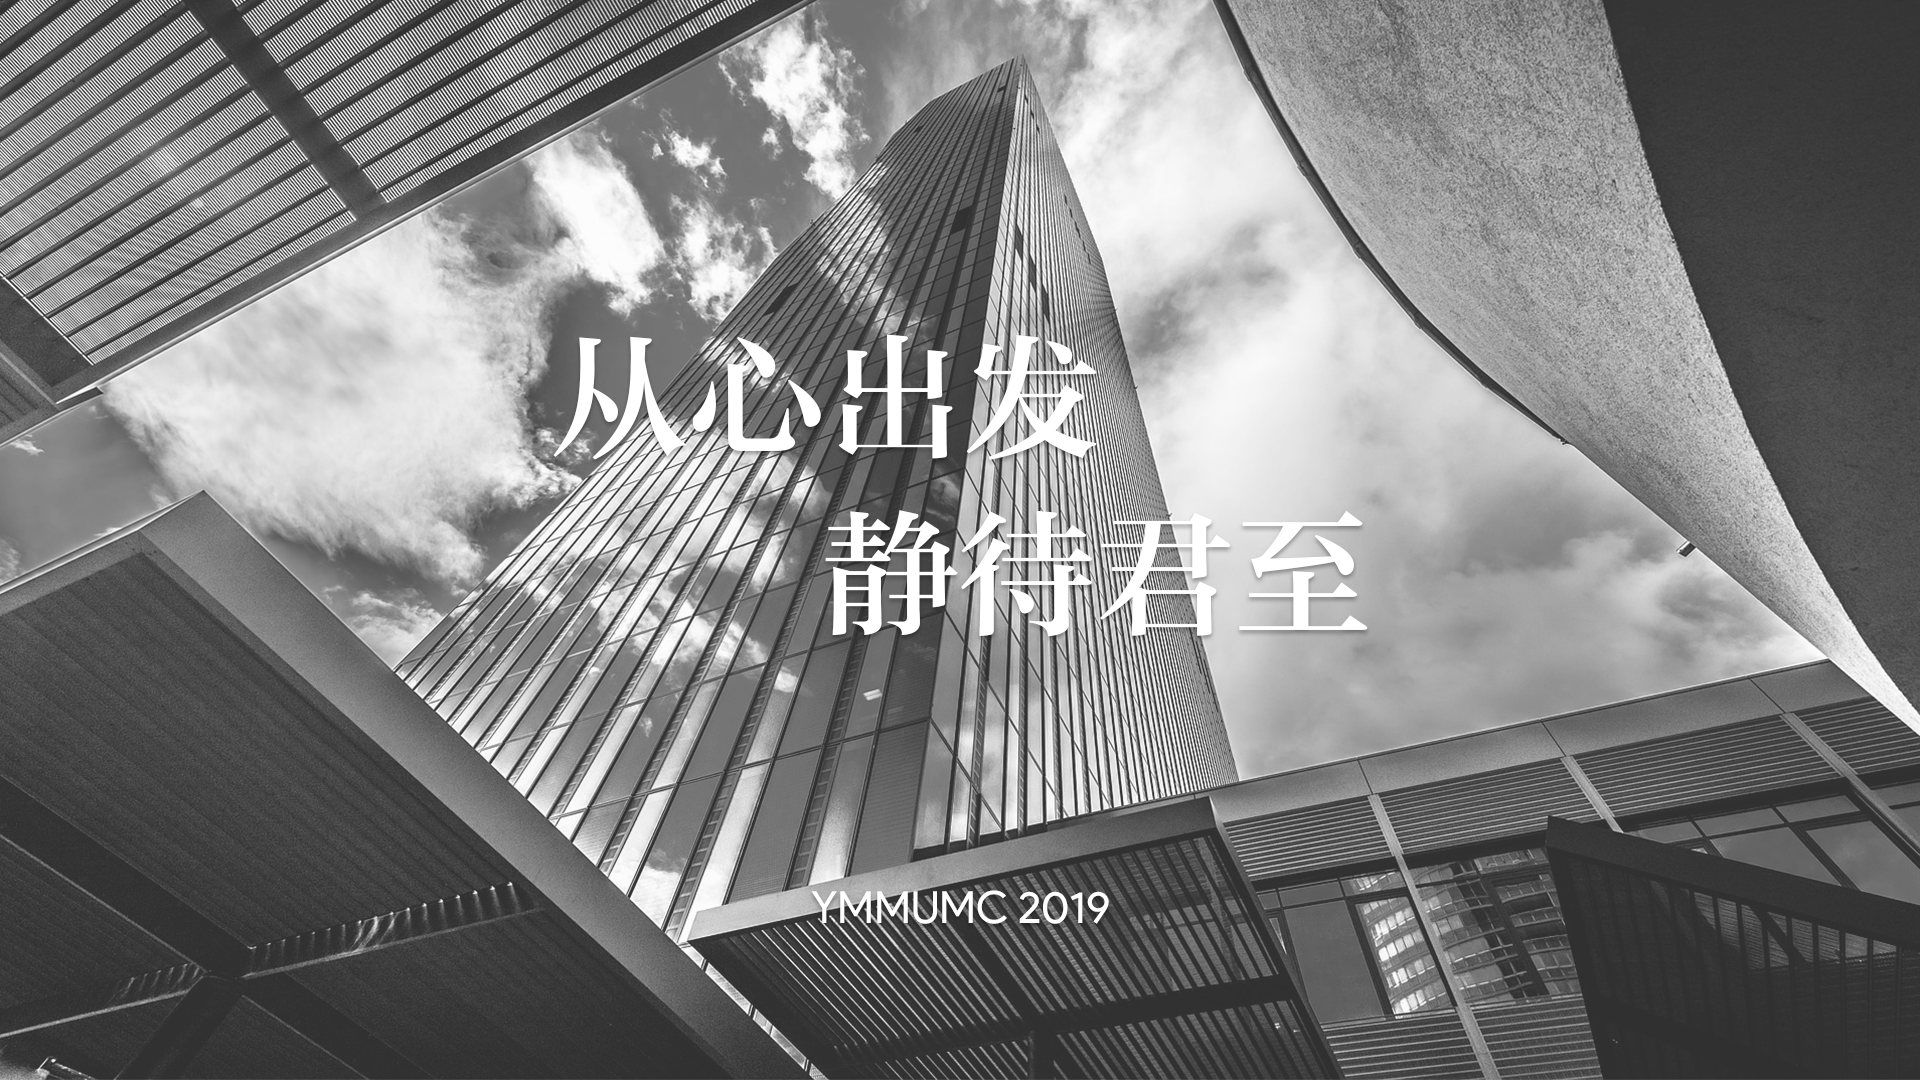
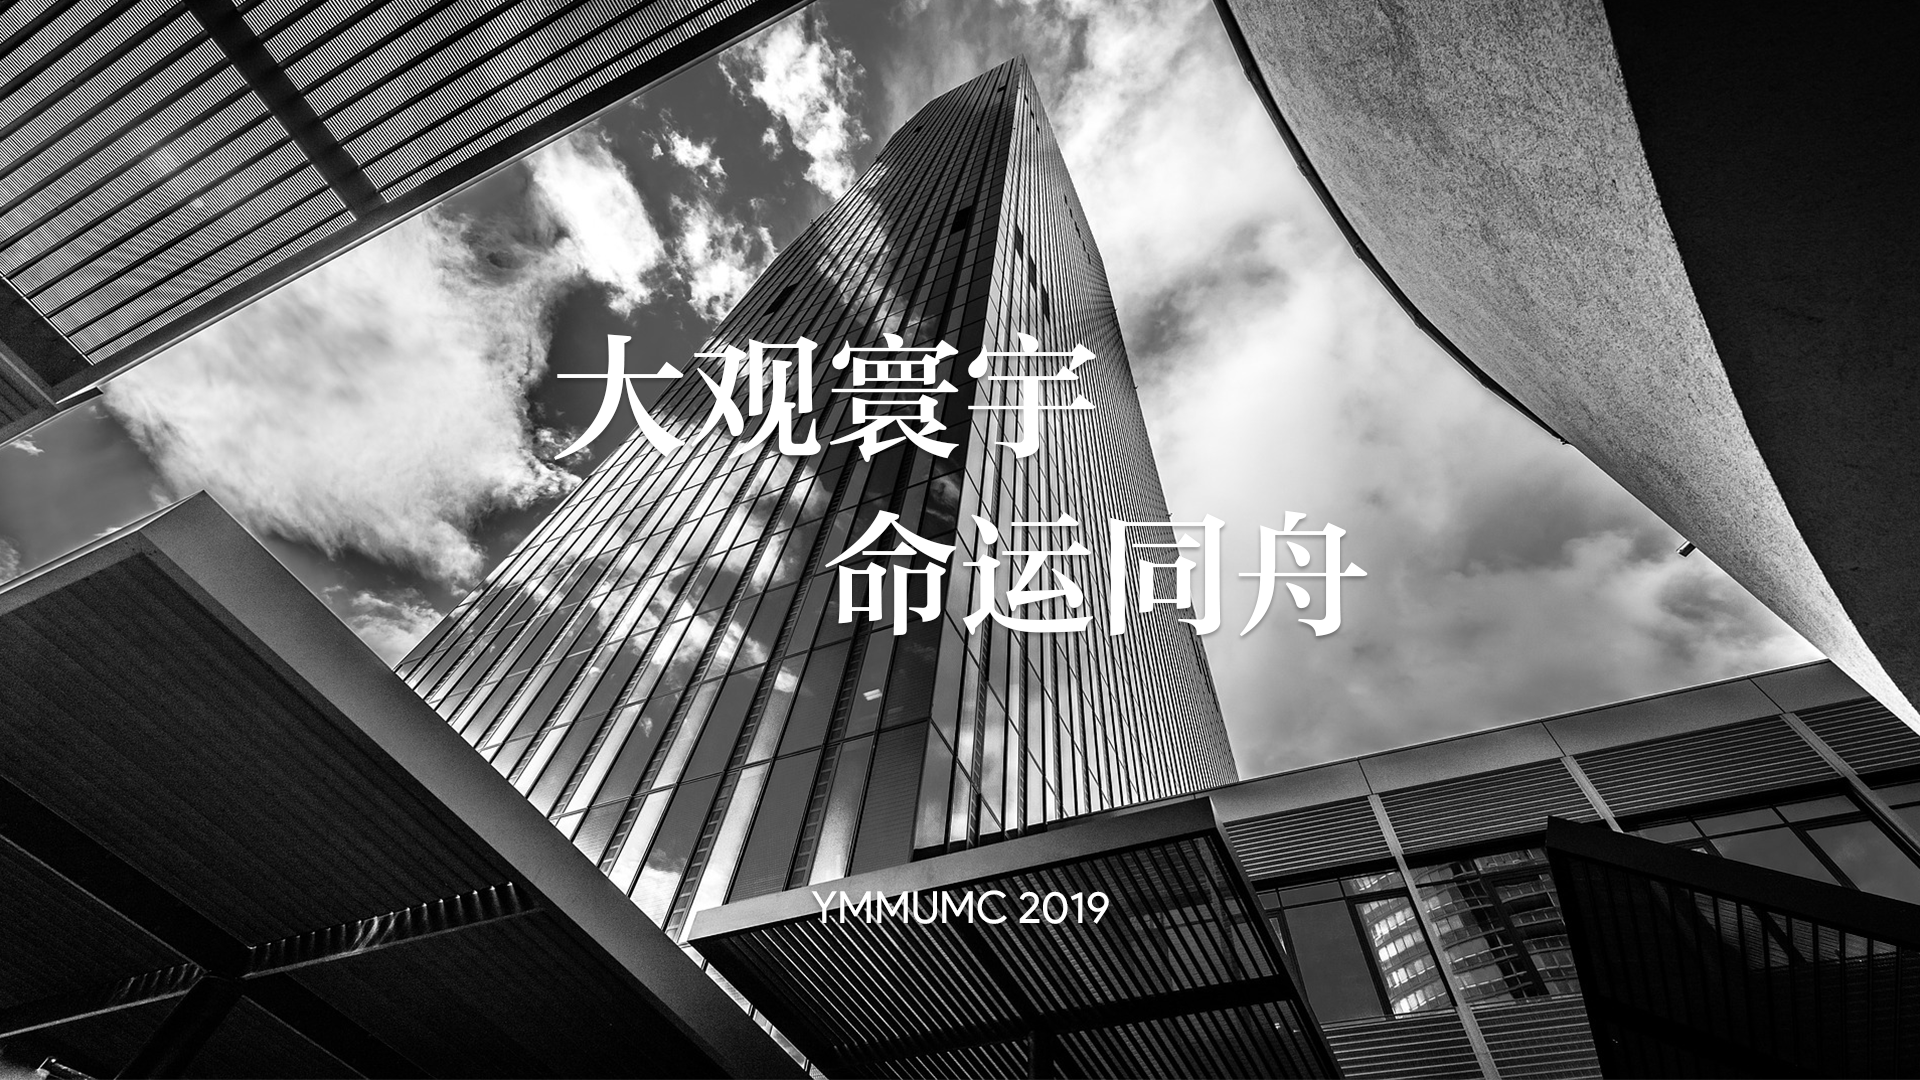
我现在就是后悔，非常后悔 我™应该用hexo来写的

diff --git a/contact.html b/contact.html
@@ -3,7 +3,7 @@
 
 <head>
     <!--指定HTML文档的标题，注意：不要忘记结束标签里面的反斜杠“/”，否则整个页面将不会显示-->
-    <title>会议成果展示 | 第四届宜梦模拟联合国大会</title>
+    <title>会议基本信息 | 第四届宜梦模拟联合国大会</title>
     <meta http-equiv="Content-Type" content="text/html; charset=utf-8" />
     <meta name="keywords" content="aiokr" />
     <meta name="description" content="" />
@@ -41,7 +41,7 @@
                 <a href="./apply.html" class="mdui-ripple">报名通道</a>
                 <a href="./oc.html" class="mdui-ripple">组委会成员介绍</a>
                 <a href="./file.html" class="mdui-ripple">文件中心</a>
-                <a href="#" class="mdui-ripple">会议成果展示</a>
+                <a href="./results.html" class="mdui-ripple">会议成果展示</a>
             </div>
         </div>
     </div>
@@ -58,8 +58,48 @@
                 <div>
                     <!--<script charset="UTF-8" defer>(function(h){function n(a){return null===a?null:a.scrollHeight>a.clientHeight?a:n(a.parentNode)}function t(b){if(b.data){var f=JSON.parse(b.data);!f.height||p||q||(d.style.height=+f.height+"px");if(f.getter){b={};var f=[].concat(f.getter),k,h=f.length,m,c,g,e;for(k=0;k<h;k++){m=k;c=f[k]||{};c.n&&(m=c.n);g=null;try{switch(c.t){case "window":e=window;break;case "scrollParent":e=n(a)||window;break;default:e=a}if(c.e)if("rect"===c.v){g={};var l=e.getBoundingClientRect();g={top:l.top,left:l.left,width:l.width,height:l.height}}else g=e[c.v].apply(e,[].concat(c.e))||!0;else c.s?(e[c.v]=c.s,g=!0):g=e[c.v]||!1}catch(u){}b[m]=g}b.innerState=!p&&!q;a.contentWindow.postMessage(JSON.stringify({queryRes:b}),"*")}}}for(var r=h.document,b=r.documentElement;b.childNodes.length&&1==b.lastChild.nodeType;)b=b.lastChild;var d=b.parentNode,a=r.createElement("iframe");d.style.overflowY="auto";d.style.overflowX="hidden";var p=d.style.height&&"auto"!==d.style.height,q="absolute"===d.style.position||window.getComputedStyle&&"absolute"===window.getComputedStyle(d,null).getPropertyValue("position")||d.currentStyle&&"absolute"===d.currentStyle.position;h.addEventListener&&h.addEventListener("message",t,!1);a.src="http://LZMUNC2019.mikecrm.com/gsEwQUE";a.id="mkingsEwQUE";a.onload=function(){a.contentWindow.postMessage(JSON.stringify({cif:1}),"*")};a.frameBorder=0;a.scrolling="no";a.style.display="block";a.style.minWidth="100%";a.style.width="100px";a.style.height="100%";a.style.border="none";a.style.overflow="auto";d.insertBefore(a,b)})(window);</script>
                         -->
+
                     <div class="padding"></div>
-                    
+                    <div class="mdui-card opacity">
+                        <div class="mdui-card-media">
+                            <img src="./assets/images/header-img.png" />
+                        </div>
+                        <div class="mdui-card-primary">
+                            <div class="mdui-card-primary-title">会议基本信息</div>
+                            <div class="mdui-card-primary-subtitle">General Information of the Conf</div>
+                        </div>
+                        <div class="mdui-card-content">
+                            <p>会议名称：2019第四届宜梦模拟联合国大会</p>
+                            <p>会议地点：安徽安庆</p>
+                            <p>会议时间：2018年1月29至1月31日</p>
+
+                        </div>
+                        <div class="mdui-card-actions">
+                        </div>
+                    </div>
+                    <div class="padding"></div>
+                    <div class="mdui-card opacity">
+                        <div class="mdui-card-primary">
+                            <div class="mdui-card-primary-title mdui-text-center">距离第四届宜梦模拟联合国大会开幕</div>
+                            <div class="mdui-card-primary-title mdui-text-center">还有</div>
+                        </div>
+                        <div>
+                            <div id="dd" class="mdui-typo-display-3 mdui-text-center">0</div>
+                            <div class="mdui-typo-display-1 mdui-text-center">天</div>
+                            <br>
+                            <div id="hh" class="mdui-typo-display-3 mdui-text-center">0</div>
+                            <div class="mdui-typo-display-1 mdui-text-center">时</div>
+                            <br>
+                            <div id="mm" class="mdui-typo-display-3 mdui-text-center">0</div>
+                            <div class="mdui-typo-display-1 mdui-text-center">分</div>
+                            <br>
+                            <div id="ss" class="mdui-typo-display-3 mdui-text-center">0</div>
+                            <div class="mdui-typo-display-1 mdui-text-center">秒</div>
+                            <br>
+                            <div class="padding-count"></div>
+                        </div>
+                    </div>
+                    <div class="padding"></div>
                     <div class="mdui-card opacity">
                         <!--<div class="mdui-card-primary">
                             <div class="mdui-card-primary-title">赞助商</div>

diff --git a/index.html b/index.html
@@ -39,9 +39,11 @@
         <div class="mdui-appbar mdui-appbar-fixed opacity mdui-tab-scrollable">
             <div class="mdui-tab mdui-color-theme" mdui-tab>
                 <a href="#" class="mdui-ripple">首页</a>
+                <a href="./contact.html" class="mdui-ripple">会议基本信息</a>
+                <a href="./apply.html" class="mdui-ripple">报名通道</a>
                 <a href="./oc.html" class="mdui-ripple">组委会成员介绍</a>
                 <a href="./file.html" class="mdui-ripple">文件中心</a>
-                <a href="./results.html" class="mdui-ripple" mdui-tooltip="{content: '暂未开启'}">会议成果展示</a>
+                <a href="./results.html" class="mdui-ripple">会议成果展示</a>
             </div>
         </div>
     </div>
@@ -81,56 +83,24 @@
                         <div class="mdui-card-actions">
                         </div>
                     </div>
-                    </div>
-                    <div class="padding"></div>
-                    <div class="mdui-card opacity">
-                        <div class="mdui-card-primary">
-                            <div class="mdui-card-primary-title">报名通道</div>
-                            <div class="mdui-card-primary-subtitle">Apply</div>
-                        </div>
-                        <div class="mdui-card-actions">
-                            <button class="mdui-btn mdui-ripple" mdui-tooltip="{content: '暂未开启 敬请期待'}">代表</button>
-                            <a class="mdui-btn mdui-ripple" href="./form-oc.html">组织团队</a>
-                            <button class="mdui-btn mdui-ripple" mdui-tooltip="{content: '暂未开启 敬请期待'}">学术团队</button>
-                        </div>
-                    </div>
-                    <div class="padding"></div>
-                    <div class="mdui-card opacity">
-                        <div class="mdui-card-primary">
-                            <div class="mdui-card-primary-title mdui-text-center">距离第四届宜梦模拟联合国大会开幕</div>
-                            <div class="mdui-card-primary-title mdui-text-center">还有</div>
-                        </div>
-                        <div>
-                            <div id="dd" class="mdui-typo-display-3 mdui-text-center">0</div>
-                            <div class="mdui-typo-display-1 mdui-text-center">天</div>
-                            <br>
-                            <div id="hh" class="mdui-typo-display-3 mdui-text-center">0</div>
-                            <div class="mdui-typo-display-1 mdui-text-center">时</div>
-                            <br>
-                            <div id="mm" class="mdui-typo-display-3 mdui-text-center">0</div>
-                            <div class="mdui-typo-display-1 mdui-text-center">分</div>
-                            <br>
-                            <div id="ss" class="mdui-typo-display-3 mdui-text-center">0</div>
-                            <div class="mdui-typo-display-1 mdui-text-center">秒</div>
-                            <br>
-                            <div class="padding-count"></div>
-                        </div>
-                    </div>
-                    <div class="padding"></div>
-                    <div class="mdui-card opacity">
-                        <!--<div class="mdui-card-primary">
+                </div>
+
+
+                <div class="padding"></div>
+                <div class="mdui-card opacity">
+                    <!--<div class="mdui-card-primary">
                             <div class="mdui-card-primary-title">赞助商</div>
                         </div>-->
-                        <div class="mdui-card-content mdui-text-center">
-                            <a href="https://www.itypen.com" target="_blank">iTypen</a>提供网站托管服务</div>
-                    </div>
+                    <div class="mdui-card-content mdui-text-center">
+                        <a href="https://www.itypen.com" target="_blank">iTypen</a>提供网站托管服务</div>
                 </div>
             </div>
-            <div class="mdui-col-xs-offset
+        </div>
+        <div class="mdui-col-xs-offset
                         mdui-col-sm-1
                         mdui-col-md-2
                         mdui-col-lg-2"></div>
-        </div>
+    </div>
     </div>
 </body>
 <script src="./assets/js/mdui.min.js" type="text/javascript"></script>

diff --git a/apply.html b/apply.html
@@ -3,7 +3,7 @@
 
 <head>
     <!--指定HTML文档的标题，注意：不要忘记结束标签里面的反斜杠“/”，否则整个页面将不会显示-->
-    <title>会议成果展示 | 第四届宜梦模拟联合国大会</title>
+    <title>报名通道 | 第四届宜梦模拟联合国大会</title>
     <meta http-equiv="Content-Type" content="text/html; charset=utf-8" />
     <meta name="keywords" content="aiokr" />
     <meta name="description" content="" />
@@ -38,10 +38,10 @@
             <div class="mdui-tab mdui-color-theme" mdui-tab>
                 <a href="./" class="mdui-ripple">首页</a>
                 <a href="./contact.html" class="mdui-ripple">会议基本信息</a>
-                <a href="./apply.html" class="mdui-ripple">报名通道</a>
+                <a href="#" class="mdui-ripple">报名通道</a>
                 <a href="./oc.html" class="mdui-ripple">组委会成员介绍</a>
                 <a href="./file.html" class="mdui-ripple">文件中心</a>
-                <a href="#" class="mdui-ripple">会议成果展示</a>
+                <a href="./results.html" class="mdui-ripple">会议成果展示</a>
             </div>
         </div>
     </div>
@@ -58,8 +58,21 @@
                 <div>
                     <!--<script charset="UTF-8" defer>(function(h){function n(a){return null===a?null:a.scrollHeight>a.clientHeight?a:n(a.parentNode)}function t(b){if(b.data){var f=JSON.parse(b.data);!f.height||p||q||(d.style.height=+f.height+"px");if(f.getter){b={};var f=[].concat(f.getter),k,h=f.length,m,c,g,e;for(k=0;k<h;k++){m=k;c=f[k]||{};c.n&&(m=c.n);g=null;try{switch(c.t){case "window":e=window;break;case "scrollParent":e=n(a)||window;break;default:e=a}if(c.e)if("rect"===c.v){g={};var l=e.getBoundingClientRect();g={top:l.top,left:l.left,width:l.width,height:l.height}}else g=e[c.v].apply(e,[].concat(c.e))||!0;else c.s?(e[c.v]=c.s,g=!0):g=e[c.v]||!1}catch(u){}b[m]=g}b.innerState=!p&&!q;a.contentWindow.postMessage(JSON.stringify({queryRes:b}),"*")}}}for(var r=h.document,b=r.documentElement;b.childNodes.length&&1==b.lastChild.nodeType;)b=b.lastChild;var d=b.parentNode,a=r.createElement("iframe");d.style.overflowY="auto";d.style.overflowX="hidden";var p=d.style.height&&"auto"!==d.style.height,q="absolute"===d.style.position||window.getComputedStyle&&"absolute"===window.getComputedStyle(d,null).getPropertyValue("position")||d.currentStyle&&"absolute"===d.currentStyle.position;h.addEventListener&&h.addEventListener("message",t,!1);a.src="http://LZMUNC2019.mikecrm.com/gsEwQUE";a.id="mkingsEwQUE";a.onload=function(){a.contentWindow.postMessage(JSON.stringify({cif:1}),"*")};a.frameBorder=0;a.scrolling="no";a.style.display="block";a.style.minWidth="100%";a.style.width="100px";a.style.height="100%";a.style.border="none";a.style.overflow="auto";d.insertBefore(a,b)})(window);</script>
                         -->
+
                     <div class="padding"></div>
-                    
+                    <div class="mdui-card opacity">
+                        <div class="mdui-card-primary">
+                            <div class="mdui-card-primary-title">报名通道</div>
+                            <div class="mdui-card-primary-subtitle">Apply</div>
+                        </div>
+                        <div class="mdui-card-actions">
+                            <button class="mdui-btn mdui-ripple">代表</button>
+                            <a class="mdui-btn mdui-ripple" href="./form-oc.html">组织团队</a>
+                            <button class="mdui-btn mdui-ripple">学术团队</button>
+                        </div>
+                    </div>
+                    <div class="padding"></div>
+
                     <div class="mdui-card opacity">
                         <!--<div class="mdui-card-primary">
                             <div class="mdui-card-primary-title">赞助商</div>

diff --git a/oc.html b/oc.html
@@ -38,9 +38,11 @@
         <div class="mdui-appbar mdui-appbar-fixed opacity mdui-tab-scrollable">
             <div class="mdui-tab mdui-color-theme" mdui-tab>
                 <a href="./" class="mdui-ripple">首页</a>
+                <a href="./contact.html" class="mdui-ripple">会议基本信息</a>
+                <a href="./apply.html" class="mdui-ripple">报名通道</a>
                 <a href="#" class="mdui-ripple">组委会成员介绍</a>
                 <a href="./file.html" class="mdui-ripple">文件中心</a>
-                <a href="./results.html" class="mdui-ripple" mdui-tooltip="{content: '暂未开启'}">会议成果展示</a>
+                <a href="./results.html" class="mdui-ripple">会议成果展示</a>
             </div>
         </div>
     </div>

diff --git a/file.html b/file.html
@@ -37,9 +37,11 @@
         <div class="mdui-appbar mdui-appbar-fixed opacity mdui-tab-scrollable">
             <div class="mdui-tab mdui-color-theme" mdui-tab>
                 <a href="./" class="mdui-ripple">首页</a>
+                <a href="./contact.html" class="mdui-ripple">会议基本信息</a>
+                <a href="./apply.html" class="mdui-ripple">报名通道</a>
                 <a href="./oc.html" class="mdui-ripple">组委会成员介绍</a>
                 <a href="#" class="mdui-ripple">文件中心</a>
-                <a href="./results.html" class="mdui-ripple" mdui-tooltip="{content: '暂未开启'}">会议成果展示</a>
+                <a href="./results.html" class="mdui-ripple">会议成果展示</a>
             </div>
         </div>
     </div>

diff --git a/form-oc.html b/form-oc.html
@@ -45,9 +45,11 @@
         <div class="mdui-appbar mdui-appbar-fixed opacity mdui-tab-scrollable">
             <div class="mdui-tab mdui-color-theme" mdui-tab>
                 <a href="./" class="mdui-ripple">首页</a>
+                <a href="./contact.html" class="mdui-ripple">会议基本信息</a>
+                <a href="./apply.html" class="mdui-ripple">报名通道</a>
                 <a href="./oc.html" class="mdui-ripple">组委会成员介绍</a>
                 <a href="#" class="mdui-ripple">文件中心</a>
-                <a href="./results.html" class="mdui-ripple" mdui-tooltip="{content: '暂未开启'}">会议成果展示</a>
+                <a href="./results.html" class="mdui-ripple">会议成果展示</a>
             </div>
         </div>
     </div>

diff --git a/assets/js/script.js b/assets/js/script.js
@@ -1,5 +1,5 @@
 function GetRTime() {
-    var EndTime = new Date('2019/05/1 09:00:00'); //截止时间
+    var EndTime = new Date('2019/01/29 09:00:00'); //截止时间
     var NowTime = new Date();
     var t = EndTime.getTime() - NowTime.getTime();
     /*var d=Math.floor(t/1000/60/60/24);
